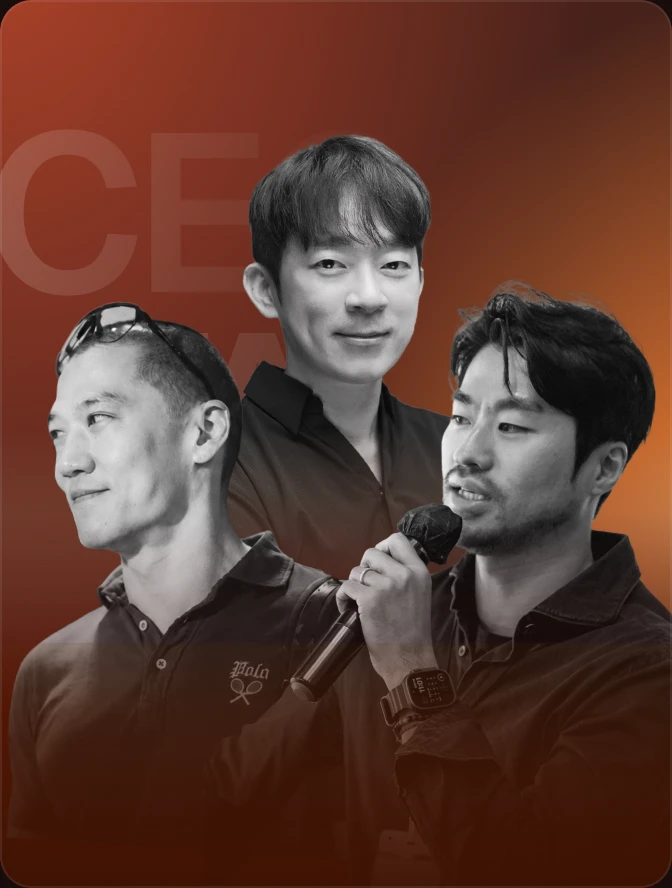
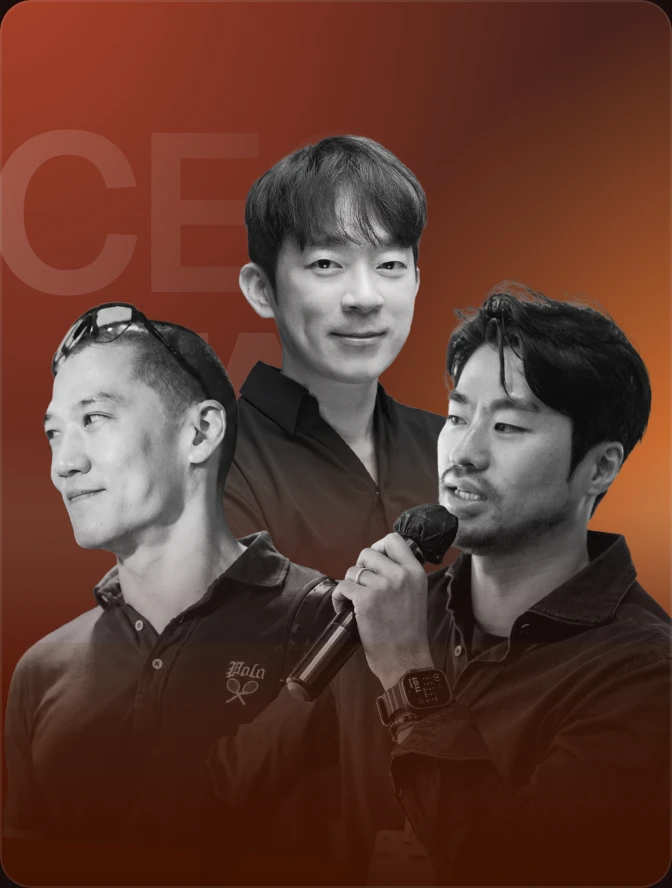
라인업: CEO·박세인·노경한·이주희·김휘승 카드를 피그마 최신본으로 다시 반영
Claude-Session: https://claude.ai/code/session_01R7psaqm8m7GEAGGww3SgQz

diff --git a/index.html b/index.html
@@ -976,7 +976,7 @@ try{ if('scrollRestoration' in history) history.scrollRestoration='manual'; }cat
   const cardHTML=(r,clone)=>{ const ti=clone?' tabindex="-1" aria-hidden="true"':'';
     if(r[0]==='soon') return `<a class="l-card soon" href="${BOOKL}" target="_blank" rel="noopener"${ti}><div class="l-top"><span>LINEUP</span><b>COMING SOON</b></div><div class="soon-mid"><svg viewBox="0 0 24 24" width="44" height="44" aria-hidden="true"><path d="M12 1.5C12.7 7.4 16.6 11.3 22.5 12C16.6 12.7 12.7 16.6 12 22.5C11.3 16.6 7.4 12.7 1.5 12C7.4 11.3 11.3 7.4 12 1.5Z" fill="#fff"/></svg><h3>더 많은 연사가<br>곧 공개됩니다</h3></div><div class="l-bottom"><span class="l-book">롱진콘 신청하기 ↗</span></div></a>`;
     const [f,n,d,c,dt,t,[x,y,w]]=r;
-    return `<a class="l-card ${t}${r[8]?' duo':''}${n.includes(' · ')?' multi':''}" href="${f.startsWith('smcc_')?'#program':BOOKL}"${f.startsWith('smcc_')?'':' target="_blank" rel="noopener"'}${ti}><div class="l-type" aria-hidden="true"><span>${WORD[f][0]}</span><span>${WORD[f][1]}</span></div>${r[8]?`<img src="img/${r[8][0]}.webp?v=3" alt="" loading="lazy" style="left:${r[8][1]}%;top:${r[8][2]}%;width:${r[8][3]}%;filter:none">`:''}<img src="img/${f}.webp${f==='ceo_lu'?'?v=5':f.startsWith('smcc_')?'?v=3':(f==='trio_lu')?'?v=2':(f==='woo_duo'||f==='lee_trio'||f==='khs_duo'||f==='noh_duo')?'?v=1':''}" alt="${clone?'':n}" loading="lazy" style="left:${x}%;top:${y}%;width:${w}%${(f==='ceo_lu'||f==='trio_lu'||f==='woo_duo'||f==='lee_trio'||f==='khs_duo'||f==='noh_duo'||f.startsWith('smcc_'))?';filter:none':''}">${r[8]?'<div style="position:absolute;left:-5.95%;top:66.89%;width:108.33%;height:36.71%;background:linear-gradient(rgba(14,46,90,0),#0E2E5A);pointer-events:none"></div>':''}${(f==='ceo_lu'||f==='trio_lu'||f==='woo_duo'||f==='lee_trio'||f==='khs_duo'||f==='noh_duo'||f.startsWith('smcc_'))?'':'<div class="scrim"></div>'}<div class="l-top"><span>${c}</span><b>${dt}</b></div><div class="l-bottom"><h3>${n}</h3><p>${d}</p><span class="l-book">${f.startsWith('smcc_')?'SMCC 별도 모집':'예매하기 ↗'}</span></div></a>`; };
+    return `<a class="l-card ${t}${r[8]?' duo':''}${n.includes(' · ')?' multi':''}" href="${f.startsWith('smcc_')?'#program':BOOKL}"${f.startsWith('smcc_')?'':' target="_blank" rel="noopener"'}${ti}><div class="l-type" aria-hidden="true"><span>${WORD[f][0]}</span><span>${WORD[f][1]}</span></div>${r[8]?`<img src="img/${r[8][0]}.webp?v=3" alt="" loading="lazy" style="left:${r[8][1]}%;top:${r[8][2]}%;width:${r[8][3]}%;filter:none">`:''}<img src="img/${f}.webp${f==='ceo_lu'?'?v=6':f.startsWith('smcc_')?'?v=3':(f==='trio_lu')?'?v=3':(f==='lee_trio'||f==='khs_duo'||f==='noh_duo')?'?v=2':(f==='woo_duo')?'?v=1':''}" alt="${clone?'':n}" loading="lazy" style="left:${x}%;top:${y}%;width:${w}%${(f==='ceo_lu'||f==='trio_lu'||f==='woo_duo'||f==='lee_trio'||f==='khs_duo'||f==='noh_duo'||f.startsWith('smcc_'))?';filter:none':''}">${r[8]?'<div style="position:absolute;left:-5.95%;top:66.89%;width:108.33%;height:36.71%;background:linear-gradient(rgba(14,46,90,0),#0E2E5A);pointer-events:none"></div>':''}${(f==='ceo_lu'||f==='trio_lu'||f==='woo_duo'||f==='lee_trio'||f==='khs_duo'||f==='noh_duo'||f.startsWith('smcc_'))?'':'<div class="scrim"></div>'}<div class="l-top"><span>${c}</span><b>${dt}</b></div><div class="l-bottom"><h3>${n}</h3><p>${d}</p><span class="l-book">${f.startsWith('smcc_')?'SMCC 별도 모집':'예매하기 ↗'}</span></div></a>`; };
   // 무한 루프: 같은 카드 세트를 앞·뒤로 한 벌씩 더 붙이고, 가운데 세트를 벗어나면 같은 위치의 가운데 카드로 몰래 점프
   rail.innerHTML=LV.map(c=>cardHTML(c,1)).join('')+LV.map(c=>cardHTML(c,0)).join('')+LV.map(c=>cardHTML(c,1)).join('');
   const cards=()=>rail.querySelectorAll('.l-card');
